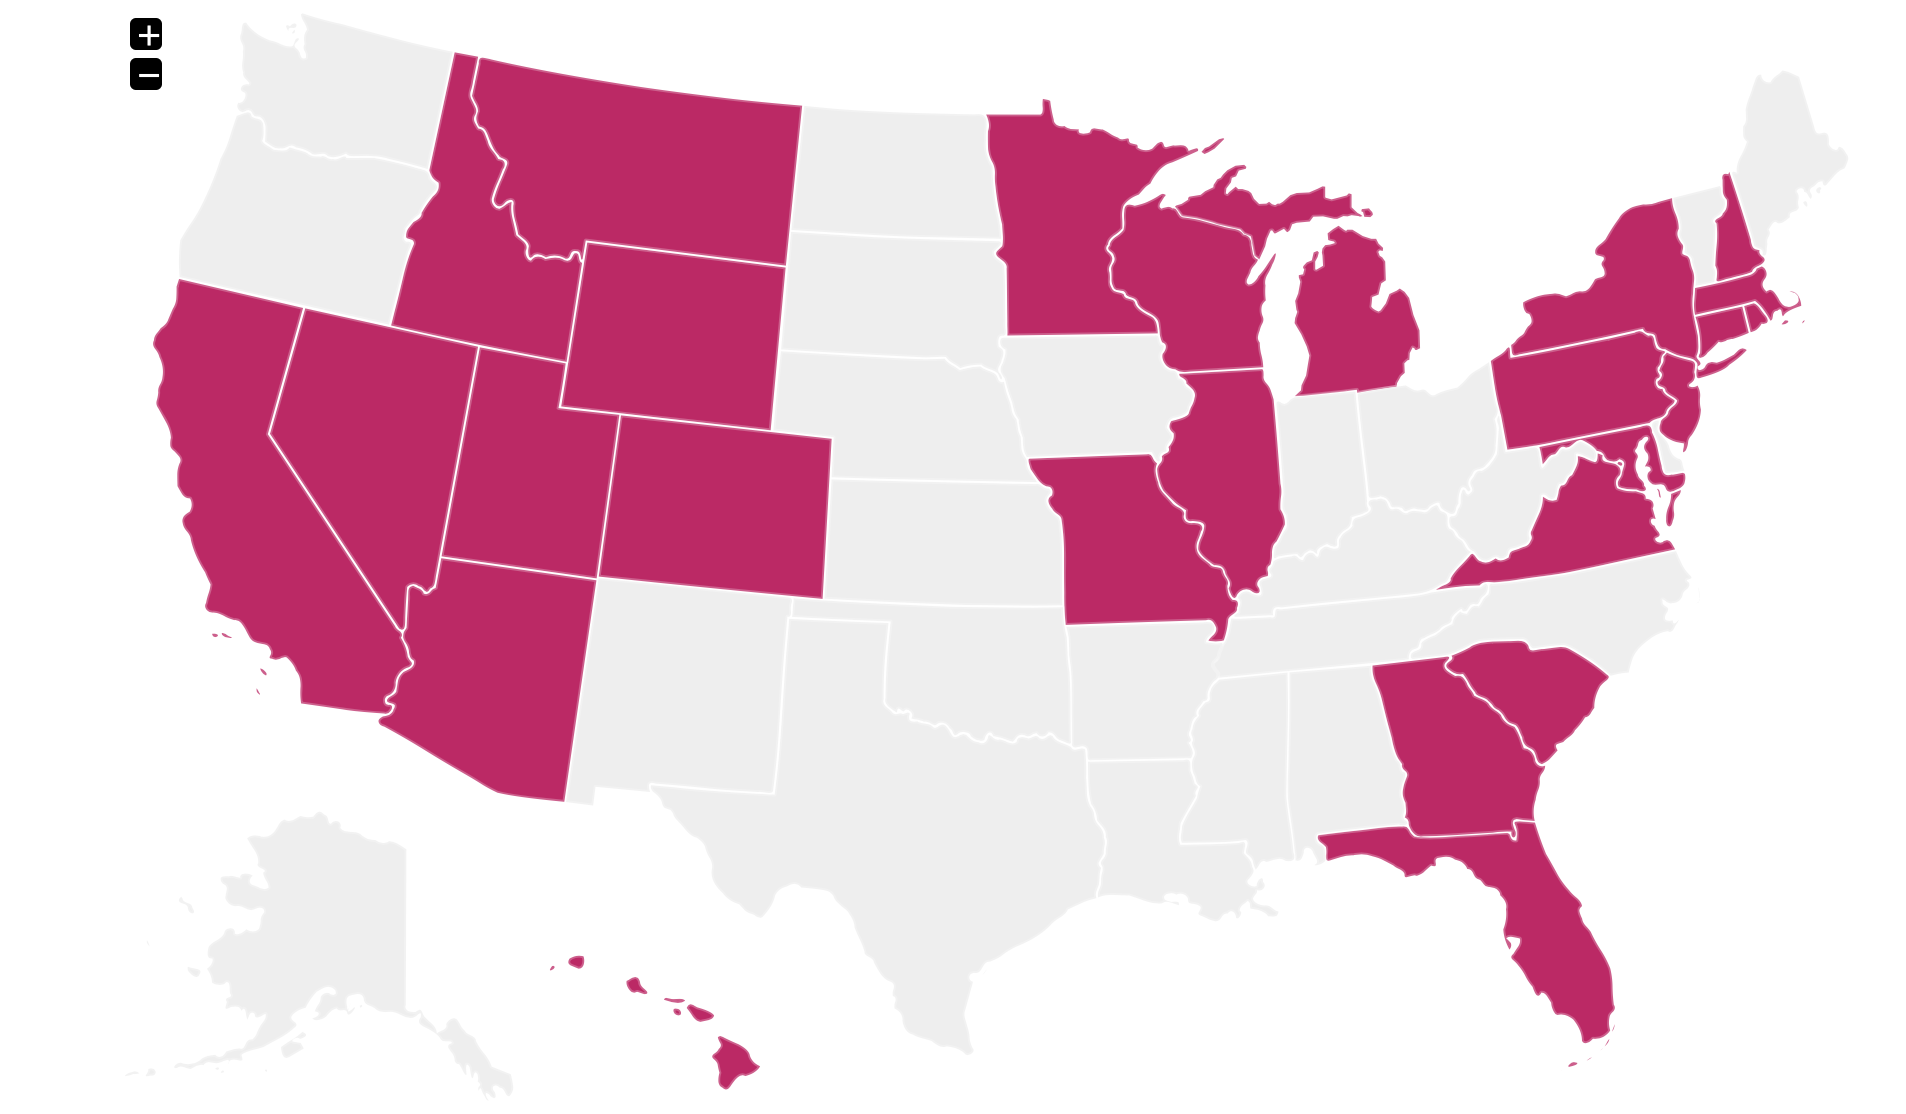
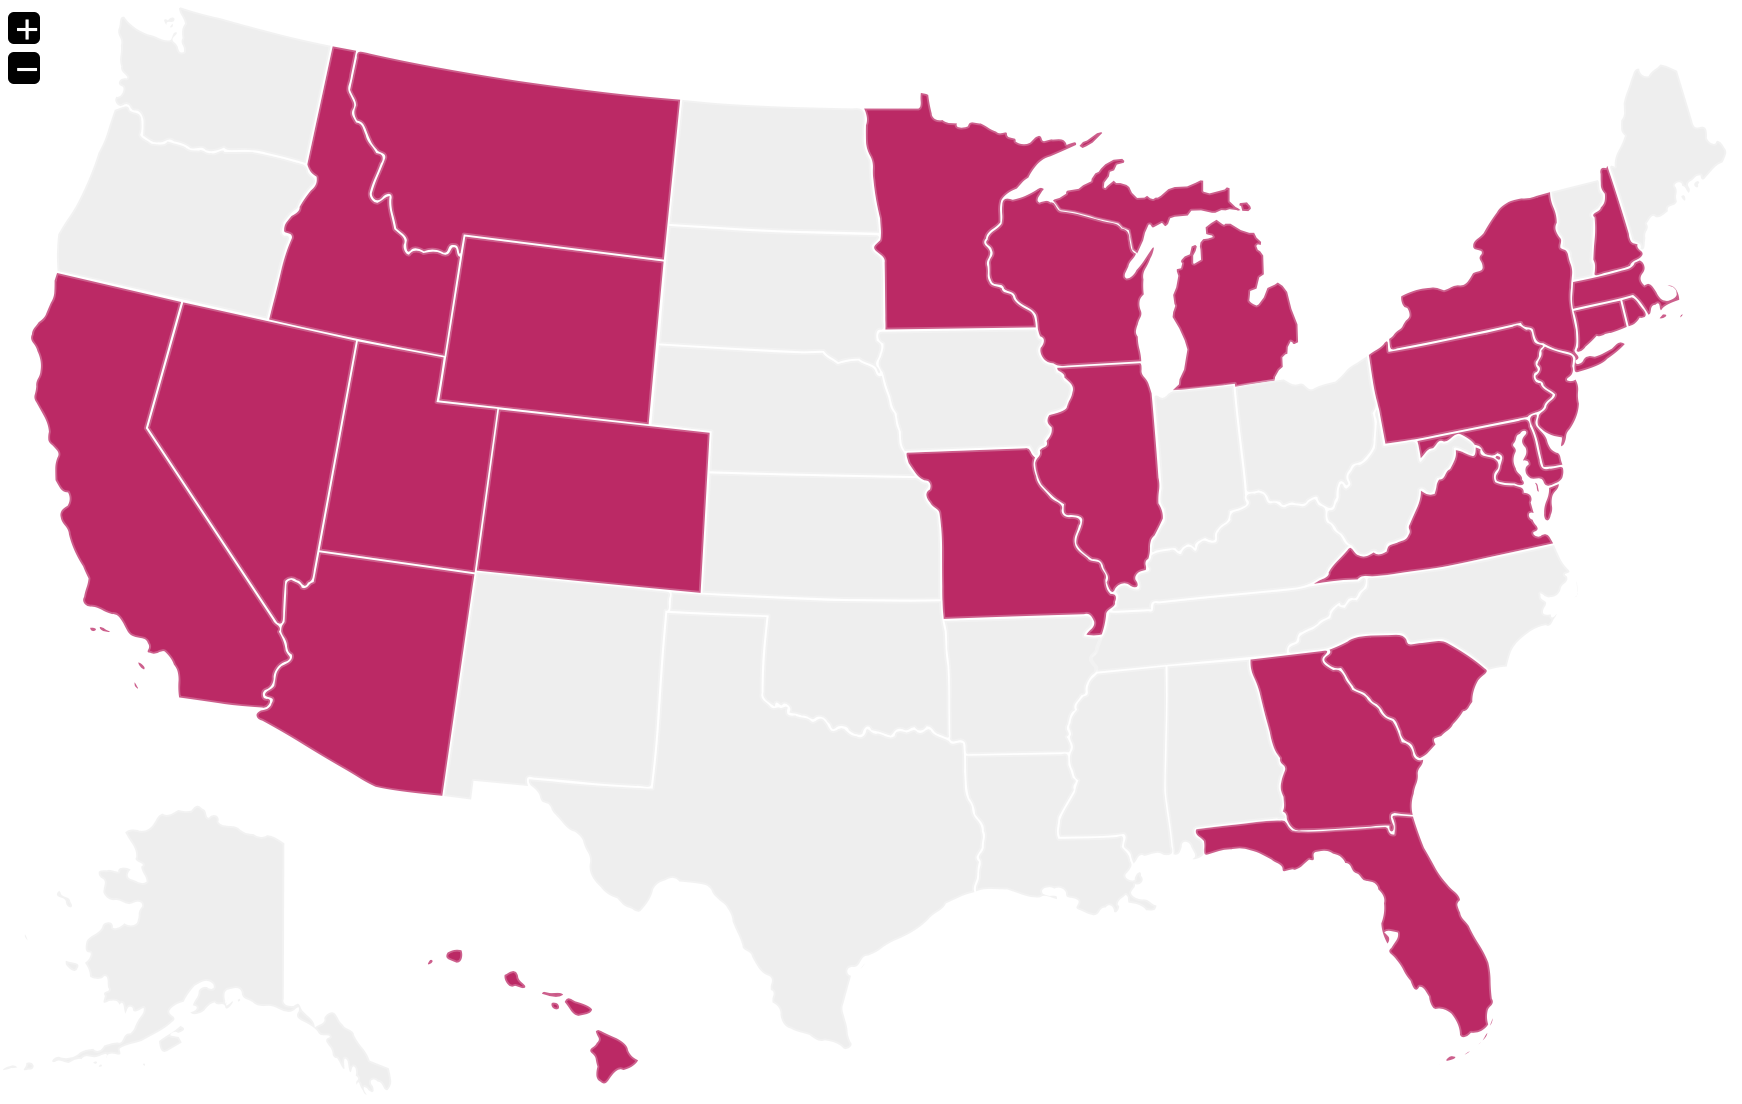
delaware

diff --git a/content/travel_plans_usa/_index.md b/content/travel_plans_usa/_index.md
@@ -81,8 +81,6 @@ author = "admin"
     - Pocono Mountains, PA 
     - Allegheny National Forest, PA
     - Snowboarding in Vermont
-    - Bombay Hook, Delaware
-    - Rehoboth, Delaware
     - Pittsburgh, PA
     - Montreal, Canada
     - Toronto, Canada

diff --git a/content/travel_usa/_index.md b/content/travel_usa/_index.md
@@ -11,7 +11,7 @@ weight = 10  # Order that this section will appear in.
 author = "admin"
 +++
 
-# USA (26 States + DC)
+# USA (27 States + DC)
 
 ![](/img/states.png)
 
